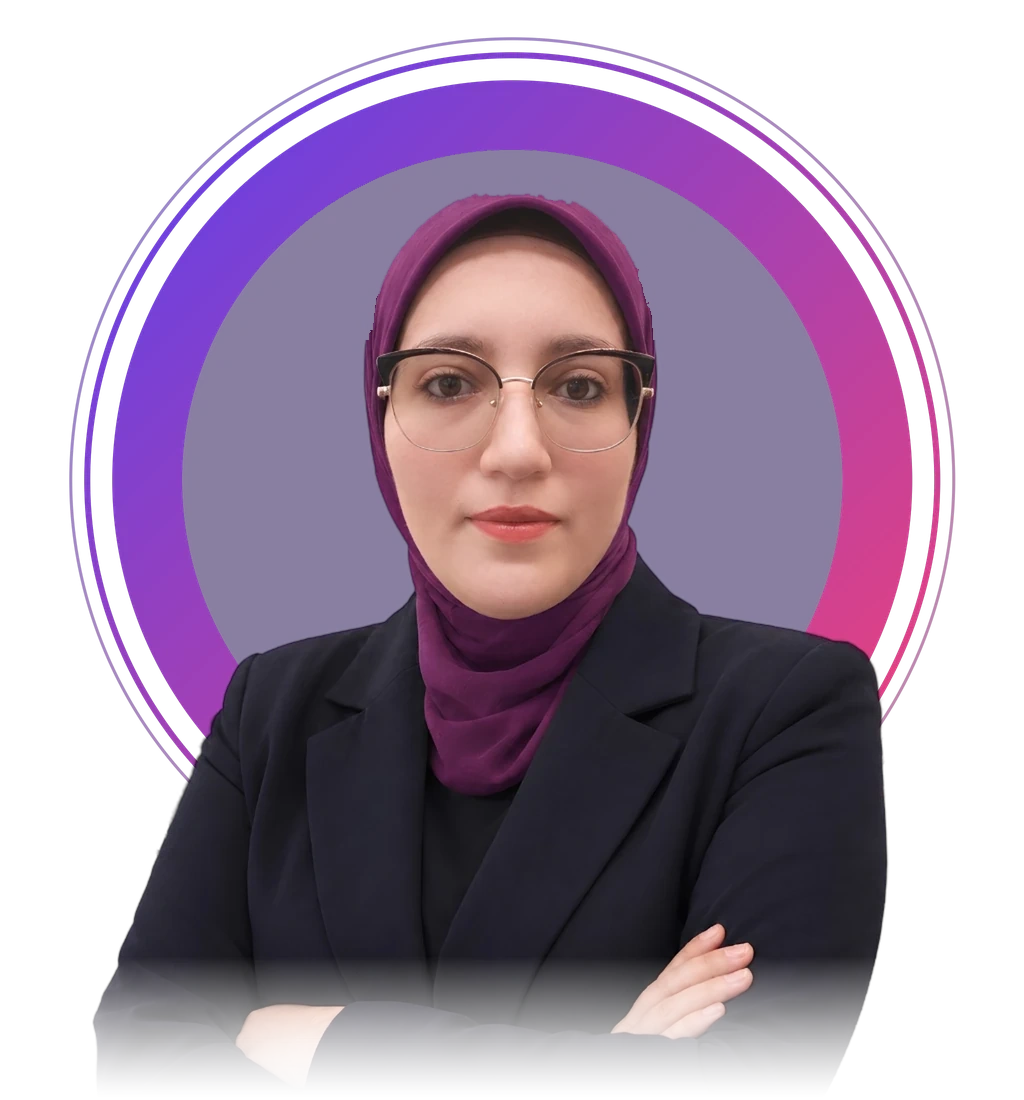
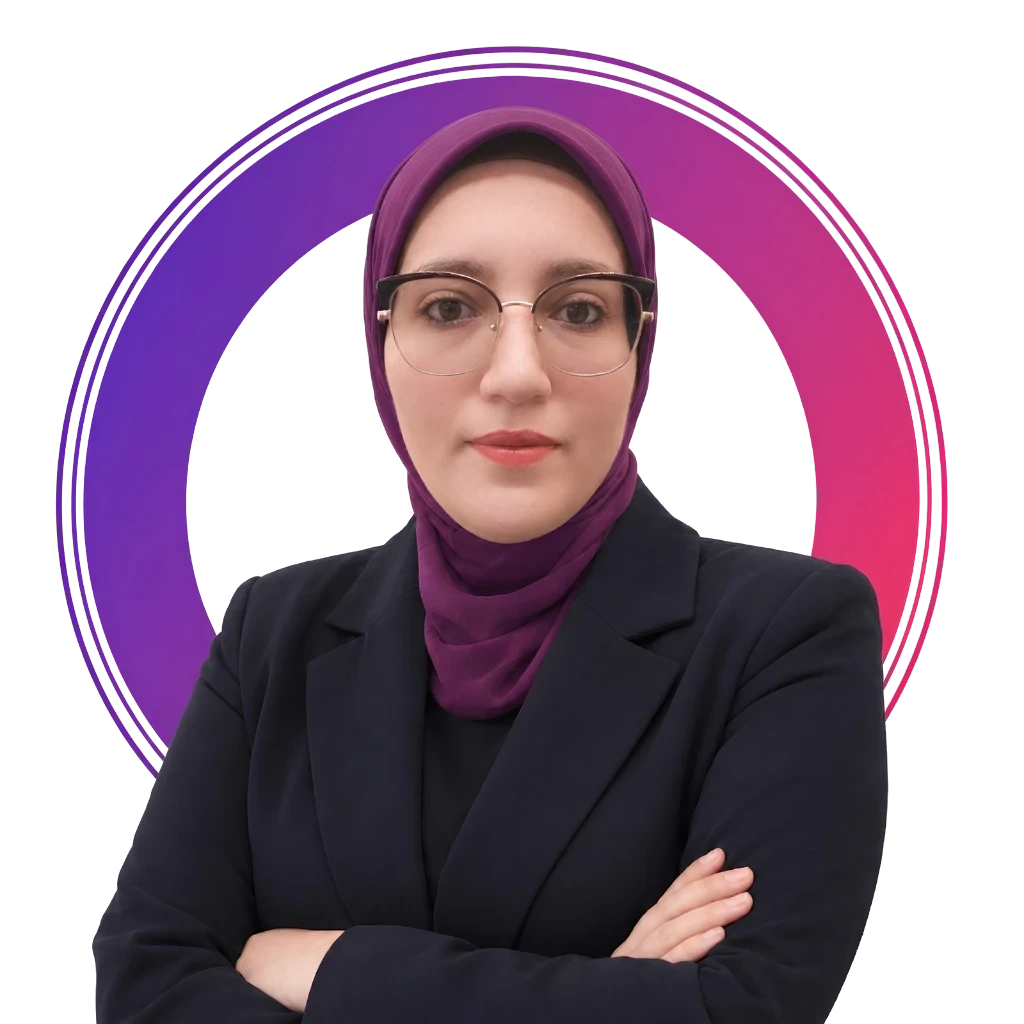
New hero portrait, lighter purple palette, and a clearer mobile layout (#3)
- Replace hala-portrait.webp with the new cut-out (white background removed)
- Lighten the purple palette one step (deep and deeper tokens)
- Mobile: services first, quick service chips, compact cards, swipeable
  recommendations, sticky Book/WhatsApp bar, shorter sections

Claude-Session: https://claude.ai/code/session_01DdNuP91tt9itm5GhBbDez4

diff --git a/site.css b/site.css
@@ -1,5 +1,5 @@
 :root{
-  --deep:#2A1A52; --deeper:#160C2F; --mid:#7B61D9; --lav:#B9A7F5; --lavl:#EEE9FF;
+  --deep:#3A2575; --deeper:#231547; --mid:#7B61D9; --lav:#B9A7F5; --lavl:#EEE9FF;
   --paper:#FBFAFF; --ink:#1B1038; --muted:#5E5679; --line:#E2DCF7; --mint:#7CF0B5;
   --head:"Sora", system-ui, sans-serif; --sans:"DM Sans", system-ui, sans-serif; --mono:"JetBrains Mono", ui-monospace, monospace;
   --grad:linear-gradient(100deg,#CDBEFF 0%,#9C84F0 45%,#E4DBFF 100%);
@@ -30,7 +30,7 @@ section{padding:104px 0}
 
 /* ---------- nav ---------- */
 header{position:fixed;inset:0 0 auto 0;z-index:30;transition:background .3s,border-color .3s}
-header.scrolled{background:rgba(22,12,47,.82);backdrop-filter:blur(14px);border-bottom:1px solid rgba(185,167,245,.14)}
+header.scrolled{background:rgba(35,21,71,.82);backdrop-filter:blur(14px);border-bottom:1px solid rgba(185,167,245,.14)}
 .nav{display:flex;align-items:center;justify-content:space-between;height:76px}
 .nav ul{display:flex;gap:30px;list-style:none}
 .nav ul a{text-decoration:none;color:var(--lavl);font-size:14.5px;font-weight:500;opacity:.8;transition:.2s}
@@ -63,12 +63,12 @@ h1{font-size:clamp(42px,6vw,76px);line-height:1.02;font-weight:800;margin:26px 0
 
 /* portrait + AI answer card */
 .visual{position:relative;padding-bottom:56px}
-.portrait{width:78%;margin-left:auto;aspect-ratio:4/5;border-radius:240px 240px 28px 28px;background:radial-gradient(circle at 50% 38%,#D9CCFF 0%,#9C84F0 38%,#4A2F9A 75%,#2A1A52 100%);overflow:hidden;position:relative;box-shadow:0 40px 80px rgba(0,0,0,.35)}
+.portrait{width:78%;margin-left:auto;aspect-ratio:4/5;border-radius:240px 240px 28px 28px;background:radial-gradient(circle at 50% 38%,#D9CCFF 0%,#9C84F0 38%,#4A2F9A 75%,#3A2575 100%);overflow:hidden;position:relative;box-shadow:0 40px 80px rgba(0,0,0,.35)}
 .portrait img{width:100%;height:100%;object-fit:contain;object-position:center bottom}
-.portrait.ring{aspect-ratio:1024/1100;border-radius:0;background:radial-gradient(circle at 50% 45%,rgba(185,167,245,.22),transparent 62%);box-shadow:none;overflow:visible}
+.portrait.ring{aspect-ratio:1/1;border-radius:0;background:radial-gradient(circle at 50% 45%,rgba(185,167,245,.22),transparent 62%);box-shadow:none;overflow:visible}
 .portrait.ring{width:92%}
 .portrait.ring~.answer{left:-14%;bottom:-110px;width:min(300px,72%)}
-.portrait.ring img{filter:drop-shadow(0 24px 40px rgba(0,0,0,.35))}
+.portrait.ring img{filter:drop-shadow(0 24px 40px rgba(0,0,0,.35));-webkit-mask-image:linear-gradient(#000 86%,transparent);mask-image:linear-gradient(#000 86%,transparent)}
 .portrait .ph{position:absolute;inset:0;display:flex;align-items:center;justify-content:center}
 .portrait .ph svg{width:46%;opacity:.35}
 .answer{position:absolute;left:-8%;bottom:-36px;width:min(340px,80%);background:rgba(255,255,255,.97);color:var(--ink);border-radius:20px;padding:18px 18px 16px;box-shadow:0 30px 60px rgba(0,0,0,.35);font-size:14px}
@@ -237,12 +237,12 @@ img.logo-chip{object-fit:cover}
 .faq{max-width:820px;margin:40px auto 0}
 .faq details{border-bottom:1px solid var(--line);padding:22px 0}
 .faq summary{font-family:var(--head);font-weight:600;font-size:19px;cursor:pointer;list-style:none;display:flex;justify-content:space-between;gap:20px}
-.faq summary::after{content:"+";color:var(--mid);font-size:24px;line-height:1;transition:transform .3s}
+.faq summary::after{content:"+";color:var(--mid);font-size:24px;line-height:1;transition:transform .3s;flex:none;width:24px;text-align:center;margin-right:6px}
 .faq details[open] summary::after{transform:rotate(45deg)}
 .faq p{color:var(--muted);margin-top:12px;font-size:16px}
 
 /* ---------- contact ---------- */
-.contact{position:relative;overflow:hidden;background:linear-gradient(135deg,#7B61D9,#2A1A52 70%);color:#fff;text-align:center;border-radius:40px;margin:0 24px 24px;padding:110px 24px;isolation:isolate}
+.contact{position:relative;overflow:hidden;background:linear-gradient(135deg,#7B61D9,#3A2575 70%);color:#fff;text-align:center;border-radius:40px;margin:0 24px 24px;padding:110px 24px;isolation:isolate}
 .contact .bigmark{position:absolute;width:520px;right:-140px;top:-140px;opacity:.12;z-index:-1;animation:spin 60s linear infinite}
 @keyframes spin{to{transform:rotate(360deg)}}
 .contact h2{font-size:clamp(34px,5vw,62px)}
@@ -301,7 +301,7 @@ footer nav a:hover{color:var(--mid)}
 .case-feature p{color:#DDD5FA;font-size:16.5px;max-width:560px}
 .case-feature .more{display:inline-block;margin-top:22px;color:#fff;font-weight:600;border-bottom:1px solid var(--lav);padding-bottom:2px}
 .cf-stats{display:grid;gap:12px}
-.cf-stats div{background:rgba(22,12,47,.55);border:1px solid rgba(185,167,245,.2);border-radius:18px;padding:16px 18px}
+.cf-stats div{background:rgba(35,21,71,.55);border:1px solid rgba(185,167,245,.2);border-radius:18px;padding:16px 18px}
 .cf-stats strong{display:block;font-family:var(--head);font-size:30px;font-weight:800;letter-spacing:-.03em;color:var(--lavl);line-height:1.1}
 .cf-stats span{font-size:13.5px;color:#C4BAE8}
 .cases.two{grid-template-columns:repeat(2,1fr)}
@@ -368,7 +368,7 @@ a.case{text-decoration:none;color:#fff}
 .cs-switch b{display:block;font-family:var(--head);font-size:20px;margin-top:6px}
 .cs-switch .to-qoyod{background:linear-gradient(135deg,#0FA595,#03201D)}
 .cs-switch .to-forlanso{background:linear-gradient(135deg,#1E6FE8,#061A3A)}
-.cs-switch .to-all{background:linear-gradient(135deg,#7B61D9,#160C2F)}
+.cs-switch .to-all{background:linear-gradient(135deg,#7B61D9,#231547)}
 @media (max-width:700px){.cs-switch{grid-template-columns:1fr}}
 .contact h2{margin-left:auto;margin-right:auto;max-width:900px}
 
@@ -445,7 +445,7 @@ header.open .burger i:nth-child(2){opacity:0}
 header.open .burger i:nth-child(3){transform:translateY(-6px) rotate(-45deg)}
 @media (max-width:960px){
   .burger{display:flex}
-  .nav ul{display:none;position:absolute;top:72px;left:12px;right:12px;flex-direction:column;gap:0;padding:8px;border-radius:20px;background:#160C2F;border:1px solid rgba(185,167,245,.18);box-shadow:0 24px 60px rgba(10,6,30,.45);max-height:calc(100vh - 90px);overflow-y:auto}
+  .nav ul{display:none;position:absolute;top:72px;left:12px;right:12px;flex-direction:column;gap:0;padding:8px;border-radius:20px;background:#231547;border:1px solid rgba(185,167,245,.18);box-shadow:0 24px 60px rgba(10,6,30,.45);max-height:calc(100vh - 90px);overflow-y:auto}
   header.open .nav ul{display:flex}
   .nav ul a{display:block;padding:14px;font-size:16px;opacity:1;border-radius:12px}
   .nav ul a:hover{background:rgba(185,167,245,.12)}
@@ -462,4 +462,70 @@ header.open .burger i:nth-child(3){transform:translateY(-6px) rotate(-45deg)}
   .nav ul{top:64px}
   .contact{padding:72px 20px}
   .nav .btn{padding:9px 16px}
+}
+
+/* ---------- mobile: clearer, shorter, services first ---------- */
+.m-services,.m-cta{display:none}
+@media (max-width:700px){
+  .wrap{padding:0 18px}
+  section{padding:52px 0}
+  h2{font-size:28px;margin:10px 0 12px}
+  body.home main{display:flex;flex-direction:column}
+  body.home .hero{order:0}
+  body.home #services{order:1}
+  body.home #work{order:2}
+  body.home #about{order:3}
+  body.home #experience{order:4}
+  body.home #recommendations{order:5}
+  body.home #geo{order:6}
+  body.home #process{order:7}
+  body.home #faq{order:8;padding-top:52px!important}
+  body.home #contact{order:9}
+
+  .hero{padding-top:92px}
+  .hero h1{font-size:34px;line-height:1.1}
+  .hero p.lead{font-size:16px;margin:14px 0 20px;display:-webkit-box;-webkit-line-clamp:4;-webkit-box-orient:vertical;overflow:hidden}
+  .hero .cta{display:grid;grid-template-columns:1fr 1fr;gap:10px}
+  .hero .cta .btn{justify-content:center;padding:13px 10px;font-size:14px;text-align:center}
+  .m-services{display:flex;flex-wrap:wrap;gap:8px;margin-top:16px}
+  .m-services a{font-size:13px;font-weight:600;color:var(--lavl);text-decoration:none;padding:8px 13px;border-radius:999px;border:1px solid rgba(185,167,245,.35);background:rgba(185,167,245,.08)}
+  .visual{max-width:300px;margin-top:6px}
+  .answer,.portrait.ring~.answer{display:none}
+  .engines{display:none}
+  .stat strong{font-size:34px}
+
+  .svc-grid{gap:10px;margin-top:22px}
+  .svc{padding:16px 18px;border-radius:18px}
+  .svc h3{font-size:17px;margin:4px 0 6px}
+  .svc p{font-size:14px;display:-webkit-box;-webkit-line-clamp:2;-webkit-box-orient:vertical;overflow:hidden}
+  .svc.feature h3{font-size:20px}
+  .svc.feature p{-webkit-line-clamp:3}
+  .svc.feature ul{display:flex;flex-wrap:wrap;gap:6px;margin-top:10px}
+  .svc.feature li{font-size:12.5px;padding:6px 10px;border-radius:999px}
+
+  .case-feature{padding:20px;margin-top:26px;gap:14px}
+  .case-feature h3{font-size:22px;margin:10px 0}
+  .case-feature p{font-size:14.5px;display:-webkit-box;-webkit-line-clamp:3;-webkit-box-orient:vertical;overflow:hidden}
+  .cf-stats{display:none}
+  .cs-filter{flex-wrap:nowrap;overflow-x:auto;margin-right:-18px;padding-right:18px;scrollbar-width:none}
+  .cs-filter::-webkit-scrollbar{display:none}
+  .cs-filter button{white-space:nowrap;flex:none}
+  .case{padding:20px;border-radius:20px}
+  .case h3{font-size:19px}
+  .case .client{margin-bottom:8px}
+  .case p{font-size:14px;display:-webkit-box;-webkit-line-clamp:3;-webkit-box-orient:vertical;overflow:hidden}
+  .case:not(.qoyod-card) .res,.case .soon{display:none}
+
+  .recs{display:flex;overflow-x:auto;scroll-snap-type:x mandatory;gap:12px;margin-right:-18px;padding-right:18px;scrollbar-width:none}
+  .recs::-webkit-scrollbar{display:none}
+  .rec{flex:0 0 86%;scroll-snap-align:start}
+
+  .m-cta{display:flex;gap:10px;position:fixed;left:0;right:0;bottom:0;z-index:25;padding:10px 14px calc(10px + env(safe-area-inset-bottom));background:rgba(35,21,71,.95);backdrop-filter:blur(12px);border-top:1px solid rgba(185,167,245,.2);transition:transform .3s}
+  .m-cta.off{transform:translateY(110%)}
+  .m-cta .btn{flex:1;justify-content:center;padding:12px;font-size:14.5px}
+  .m-cta .m-wa{background:#25D366;color:#06260f}
+  .xp-h .tl{margin:0 -18px;padding:0 18px 8px}
+  .sd-res.faint,.sd-src.faint+.sd-src.faint{display:none}
+  .sd-stage{padding:16px}
+  footer{padding-bottom:96px}
 }

diff --git a/index.html b/index.html
@@ -82,12 +82,12 @@
 </script>
 <link rel="stylesheet" href="site.css">
 </head>
-<body>
+<body class="home">
 
 <!-- reusable logo symbol -->
 <svg width="0" height="0" style="position:absolute" aria-hidden="true">
   <defs>
-    <linearGradient id="lg" x1="0" y1="0" x2="1" y2="1"><stop offset="0" stop-color="#7B61D9"/><stop offset="1" stop-color="#2A1A52"/></linearGradient>
+    <linearGradient id="lg" x1="0" y1="0" x2="1" y2="1"><stop offset="0" stop-color="#7B61D9"/><stop offset="1" stop-color="#3A2575"/></linearGradient>
   </defs>
 </svg>
 
@@ -127,11 +127,12 @@
           <a class="btn btn-lav" href="#work">See GEO results →</a>
           <a class="btn btn-ghost" href="#contact">Book a GEO audit</a>
         </div>
+        <div class="m-services" aria-label="Services"><a href="#services">GEO &amp; AI Search</a><a href="#services">SEO Audits</a><a href="#services">Technical SEO</a><a href="#services">Arabic &amp; English Content</a><a href="#services">Automation</a></div>
       </div>
 
       <div class="visual rv d2">
         <div class="portrait ring">
-          <img src="hala-portrait.webp" alt="Hala Shamaly, GEO and AI search strategist" width="1024" height="1100" fetchpriority="high">
+          <img src="hala-portrait.webp" alt="Hala Shamaly, GEO and AI search strategist" width="1024" height="1024" fetchpriority="high">
         </div>
         <div class="answer" aria-hidden="true">
           <div class="q"><span class="dot">⌕</span><span id="qtext">Who can get my brand cited by AI in Saudi?</span></div>
@@ -456,6 +457,7 @@
 <script>
 document.querySelectorAll('.cs-filter').forEach(function(bar){var grid=bar.nextElementSibling;bar.addEventListener('click',function(e){var b=e.target.closest('button');if(!b)return;bar.querySelectorAll('button').forEach(function(x){x.classList.toggle('on',x===b)});var f=b.dataset.f;grid.querySelectorAll('[data-cat]').forEach(function(c){c.classList.toggle('hide',f==='all'?c.classList.contains('f-only'):c.dataset.cat.split(' ').indexOf(f)<0)})})});
 </script>
+<div class="m-cta" id="mcta"><a class="btn btn-lav" href="#contact">Book a GEO audit</a><a class="btn m-wa" href="https://wa.me/972597032626" target="_blank" rel="noopener">WhatsApp</a></div>
 <script src="site.js" defer></script>
 </body>
 </html>

diff --git a/case.css b/case.css
@@ -99,7 +99,7 @@
 .shot .eng{font-family:var(--mono);font-size:11.5px;letter-spacing:.1em;text-transform:uppercase;color:var(--mid)}
 .shot .q{font-family:"IBM Plex Sans Arabic",var(--sans);direction:rtl;text-align:right;color:var(--deep);font-weight:600;margin:6px 0 4px}
 .shot p{font-size:14.5px;color:var(--muted)}
-.lightbox{position:fixed;inset:0;background:rgba(22,12,47,.9);display:none;align-items:center;justify-content:center;z-index:50;padding:24px;cursor:zoom-out}
+.lightbox{position:fixed;inset:0;background:rgba(35,21,71,.9);display:none;align-items:center;justify-content:center;z-index:50;padding:24px;cursor:zoom-out}
 .lightbox.on{display:flex}
 .lightbox img{max-width:min(1200px,100%);max-height:90vh;border-radius:12px}
 @media (max-width:960px){.shots{grid-template-columns:1fr}.shot.wide{grid-column:auto}}

diff --git a/forlanso.html b/forlanso.html
@@ -53,7 +53,7 @@
 </head>
 <body class="theme-forlanso">
 
-<svg width="0" height="0" style="position:absolute" aria-hidden="true"><defs><linearGradient id="lg" x1="0" y1="0" x2="1" y2="1"><stop offset="0" stop-color="#7B61D9"/><stop offset="1" stop-color="#2A1A52"/></linearGradient></defs></svg>
+<svg width="0" height="0" style="position:absolute" aria-hidden="true"><defs><linearGradient id="lg" x1="0" y1="0" x2="1" y2="1"><stop offset="0" stop-color="#7B61D9"/><stop offset="1" stop-color="#3A2575"/></linearGradient></defs></svg>
 
 <header id="hdr">
   <nav class="wrap nav" aria-label="Main">

diff --git a/qoyod.html b/qoyod.html
@@ -53,7 +53,7 @@
 </head>
 <body class="theme-qoyod">
 
-<svg width="0" height="0" style="position:absolute" aria-hidden="true"><defs><linearGradient id="lg" x1="0" y1="0" x2="1" y2="1"><stop offset="0" stop-color="#7B61D9"/><stop offset="1" stop-color="#2A1A52"/></linearGradient></defs></svg>
+<svg width="0" height="0" style="position:absolute" aria-hidden="true"><defs><linearGradient id="lg" x1="0" y1="0" x2="1" y2="1"><stop offset="0" stop-color="#7B61D9"/><stop offset="1" stop-color="#3A2575"/></linearGradient></defs></svg>
 
 <header id="hdr">
   <nav class="wrap nav" aria-label="Main">

diff --git a/work.html b/work.html
@@ -45,7 +45,7 @@
 </head>
 <body>
 
-<svg width="0" height="0" style="position:absolute" aria-hidden="true"><defs><linearGradient id="lg" x1="0" y1="0" x2="1" y2="1"><stop offset="0" stop-color="#7B61D9"/><stop offset="1" stop-color="#2A1A52"/></linearGradient></defs></svg>
+<svg width="0" height="0" style="position:absolute" aria-hidden="true"><defs><linearGradient id="lg" x1="0" y1="0" x2="1" y2="1"><stop offset="0" stop-color="#7B61D9"/><stop offset="1" stop-color="#3A2575"/></linearGradient></defs></svg>
 
 <header id="hdr">
   <nav class="wrap nav" aria-label="Main">

diff --git a/site.js b/site.js
@@ -1,4 +1,9 @@
 (() => {
+  const bar = document.getElementById('mcta'), tgt = document.getElementById('contact');
+  if (!bar || !tgt) return;
+  new IntersectionObserver(e => bar.classList.toggle('off', e[0].isIntersecting), { threshold: .15 }).observe(tgt);
+})();
+(() => {
   const sd = document.getElementById('sd');
   if (!sd) return;
   const tabs = sd.querySelectorAll('[role="tab"]');
